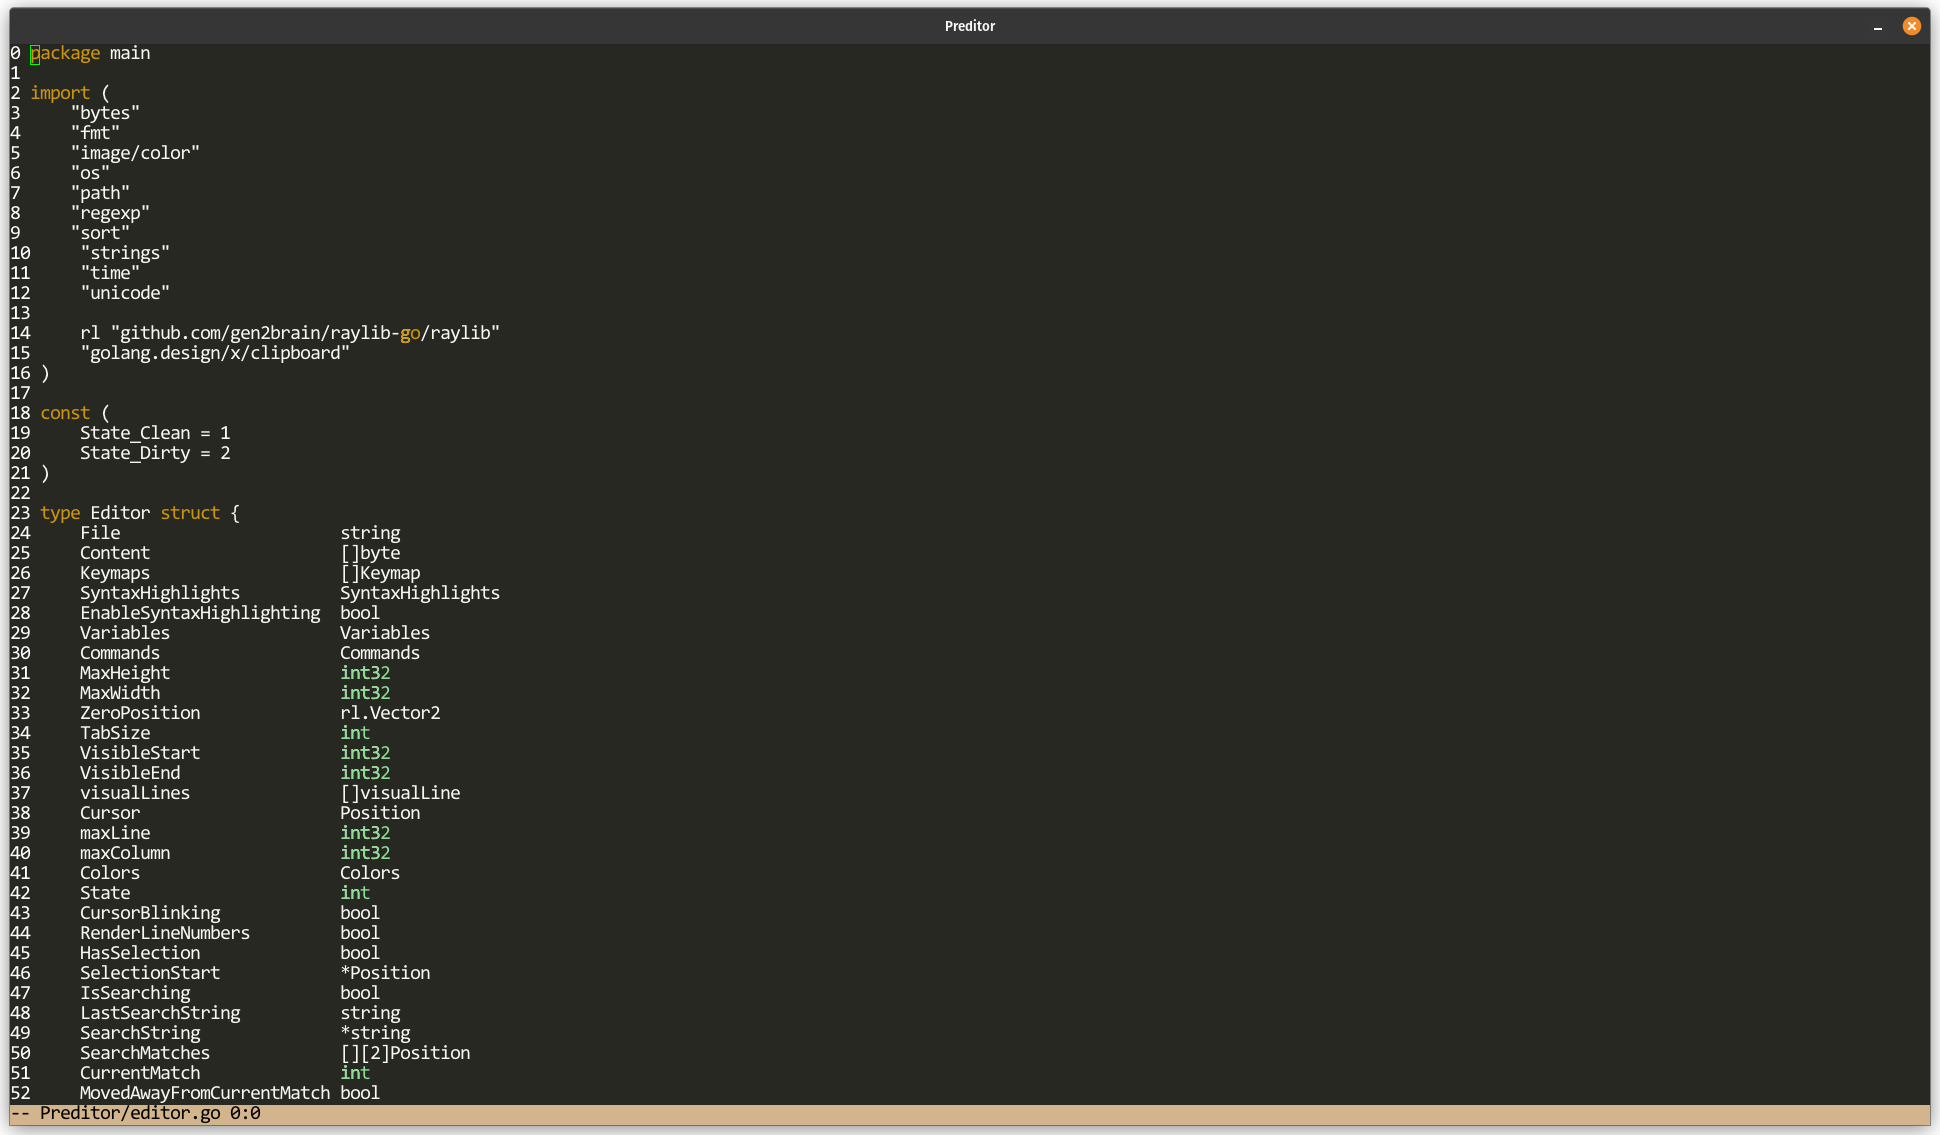
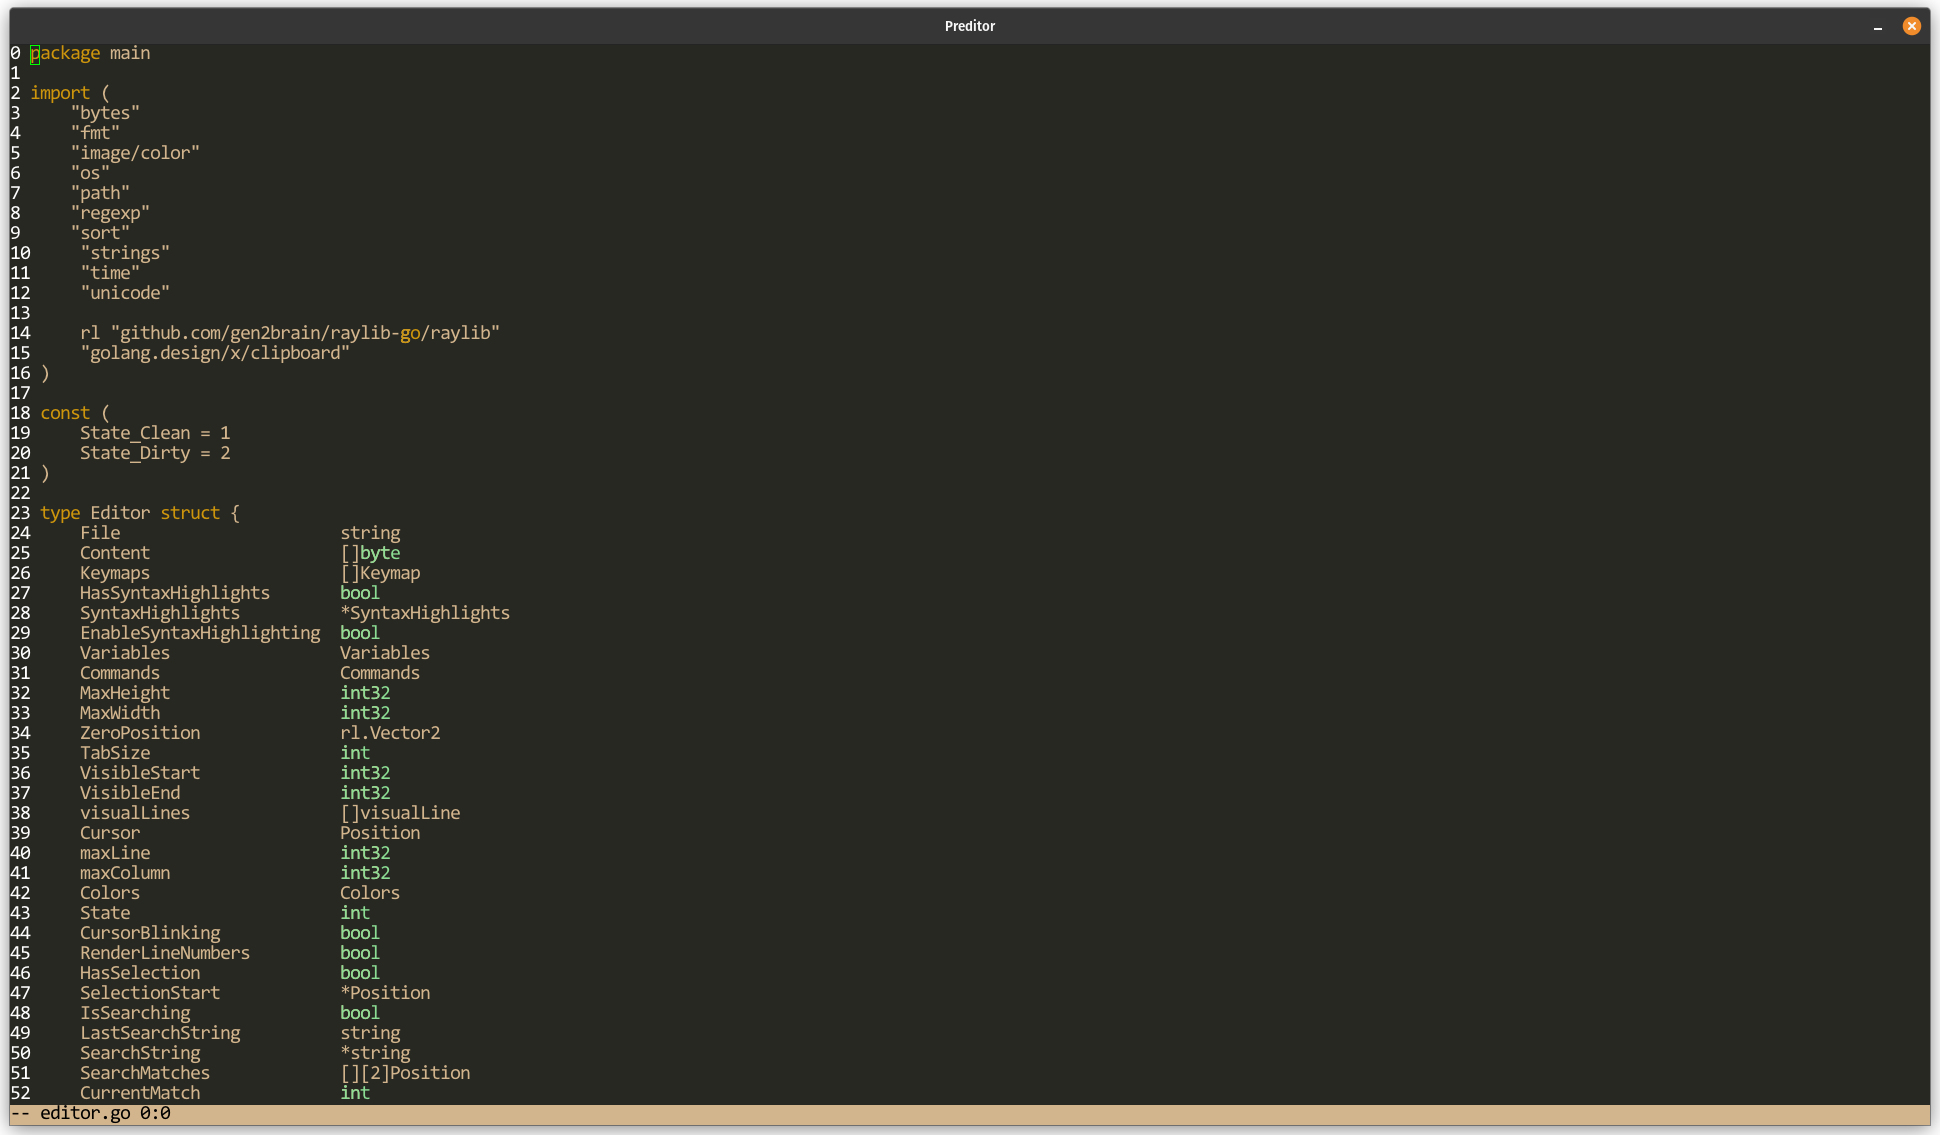
Fix if file does not have any syntax highlighting rules, README.md

diff --git a/editor.go b/editor.go
@@ -25,7 +25,8 @@ type Editor struct {
 	File                      string
 	Content                   []byte
 	Keymaps                   []Keymap
-	SyntaxHighlights          SyntaxHighlights
+	HasSyntaxHighlights       bool
+	SyntaxHighlights          *SyntaxHighlights
 	EnableSyntaxHighlighting  bool
 	Variables                 Variables
 	Commands                  Commands
@@ -127,6 +128,7 @@ func NewEditor(opts EditorOptions) (*Editor, error) {
 		if exists {
 			t.BeforeSaveHook = append(t.BeforeSaveHook, fileType.BeforeSave)
 			t.SyntaxHighlights = fileType.SyntaxHighlights
+			t.HasSyntaxHighlights = fileType.SyntaxHighlights != nil
 		}
 	}
 	t.replaceTabsWithSpaces()
@@ -155,6 +157,9 @@ type visualLine struct {
 }
 
 func (t *Editor) calculateHighlights(bs []byte, offset int) []highlight {
+	if !t.HasSyntaxHighlights {
+		return nil
+	}
 	var highlights []highlight
 	//keywords
 	indexes := t.SyntaxHighlights.Keywords.Regex.FindAllStringIndex(string(bs), -1)
@@ -463,7 +468,7 @@ func (t *Editor) renderText() {
 
 			}
 
-			if t.EnableSyntaxHighlighting {
+			if t.EnableSyntaxHighlighting && t.HasSyntaxHighlights {
 				for _, h := range line.Highlights {
 					rl.DrawTextEx(font,
 						string(t.Content[h.start:h.end+1]),

diff --git a/filetype.go b/filetype.go
@@ -9,8 +9,8 @@ import (
 )
 
 type FileType struct {
-	BeforeSave func(*Editor) error
-	SyntaxHighlights
+	BeforeSave       func(*Editor) error
+	SyntaxHighlights *SyntaxHighlights
 }
 
 type SyntaxHighlights struct {
@@ -48,14 +48,14 @@ func initFileTypes(cfg Colors) {
 				return nil
 			},
 
-			SyntaxHighlights: SyntaxHighlights{
+			SyntaxHighlights: &SyntaxHighlights{
 				Keywords: SyntaxHighlight{
 					Regex: regexp.MustCompile(keywordsPat("break", "case", "chan", "const", "continue", "default", "defer", "else", "fallthrough", "for", "func", "go", "goto", "if",
 						"import", "interface", "map", "package", "range", "return", "select", "struct", "switch", "type", "var")),
 					Color: cfg.SyntaxKeywords,
 				},
 				Types: SyntaxHighlight{
-					Regex: regexp.MustCompile(keywordsPat("u*int8", "u*int16", "u*int32", "u*int64", "u*int", "float(32|64)")),
+					Regex: regexp.MustCompile(keywordsPat("u*int8", "u*int16", "u*int32", "u*int64", "u*int", "float(32|64)", "bool", "chan", "byte")),
 					Color: cfg.SyntaxTypes,
 				},
 			},

diff --git a/config.go b/config.go
@@ -28,7 +28,7 @@ func mustParseHexColor(hex string) color.RGBA {
 var defaultConfig = Config{
 	Colors: Colors{
 		Background:            mustParseHexColor("#272822"),
-		Foreground:            mustParseHexColor("#cdaa7d"),
+		Foreground:            mustParseHexColor("#d3b58d"),
 		Selection:             mustParseHexColor("#414339"),
 		StatusBarBackground:   mustParseHexColor("#ffffff"),
 		StatusBarForeground:   mustParseHexColor("#000000"),

diff --git a/README.md b/README.md
@@ -1,6 +1,6 @@
 # Preditor
 ## Programmable Editor
-Simple text editor implemented in Golang using Raylib with the goal of being a simple, extensible basic editor that you can build your own PDE on.
+Simple text editor implemented in Golang using Raylib with the goal of replacing Emacs for me, easier to extend and much faster and better language to work with than Elisp.
  
 ## Features So far
 
@@ -15,11 +15,11 @@ Simple text editor implemented in Golang using Raylib with the goal of being a s
 - Incremental Buffer Search
 - Support BeforeSaveHook to use formatting tools like Go fmt
 - Auto format go code using pkg/format
-
+- Copy/paste
+- Basic Regex syntax highlighting for keywords and types.
 
 ## TODO:
 - Zoom in/out (increase/decrease) font size
-- Copy/paste
 - Undo
 - Fuzzy file finder
 - Command output buffer ( run a command and see it's result, similar to *Compile Mode* in Emacs)
